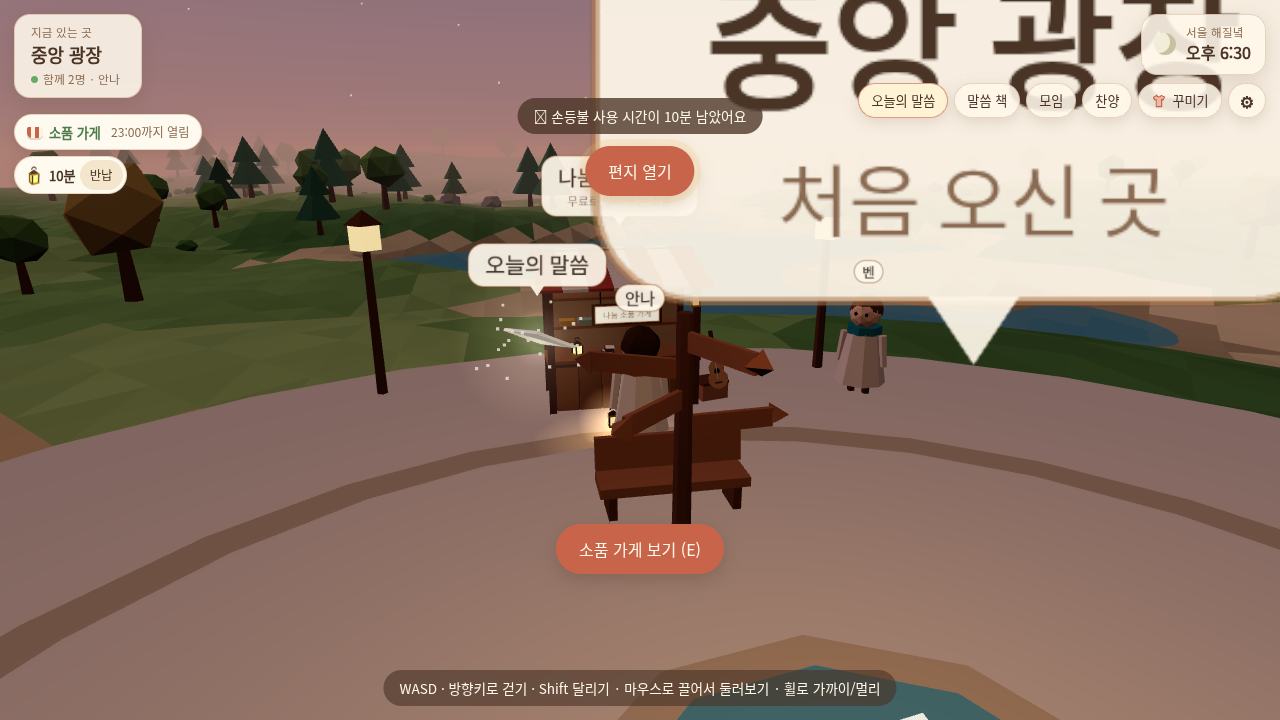
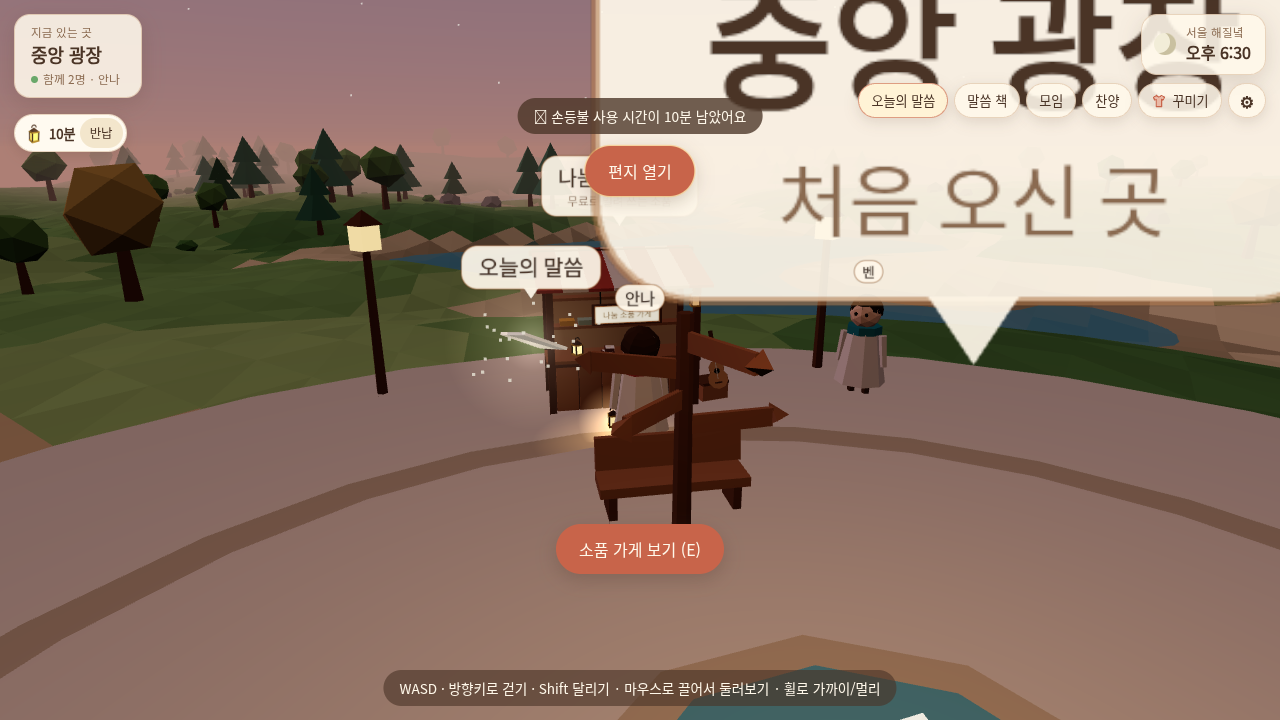
fix(shop): remove the HUD opening-hours chip; re-sync on ambiguous rent replies
The user asked to drop the top-left 'open until …' chip; hours stay on the
stall sign and in the shop sheet. Rent now re-checks server state (and retries
with the same requestId) when a reply carries no explicit error, so a rental
that succeeded behind a proxy hiccup is never reported as failed.

Claude-Session: https://claude.ai/code/session_01QsWPXXpkTAwZLNvoEFaFKZ

Changed region(s): [[0.3438, 0.3361, 0.5, 0.4889], [0.0, 0.1528, 0.1562, 0.275]]

diff --git a/client/src/ui/ShopView.ts b/client/src/ui/ShopView.ts
@@ -133,44 +133,33 @@ export class ShopView {
 }
 
 /**
- * HUD dock (top-left, under the place card): 🏪 shop chip while open (or the
- * next opening time in the plaza) and one chip per borrowed prop with the time
- * left and [반납] (tap twice to confirm).
+ * HUD dock (top-left, under the place card): one chip per borrowed prop with
+ * the time left and [반납] (tap twice to confirm). The shop's opening hours are
+ * not shown here (the user removed that chip); the stall, its sign and the
+ * shop sheet show them.
  */
 export class PropDock {
   readonly root = el('div', 'prop-dock');
-  private readonly shopChip = button('', 'prop-chip shop-chip');
   private readonly list = el('div', 'prop-list');
   private confirmId: number | null = null;
   private confirmUntil = 0;
   private lastKey = '';
-  private showClosed = false;
 
   constructor(
     private readonly shop: ShopClient,
-    onShop: () => void,
+    _onShop: () => void,
     private readonly toast: (text: string) => void,
   ) {
     this.root.id = 'prop-dock';
-    this.shopChip.id = 'shop-chip';
-    this.shopChip.addEventListener('click', (e) => {
-      e.preventDefault();
-      onShop();
-      this.shopChip.blur();
-    });
     this.list.id = 'prop-list';
-    this.root.append(this.shopChip, this.list);
+    this.root.append(this.list);
     this.root.addEventListener('pointerdown', (e) => e.stopPropagation());
     document.getElementById('app')!.append(this.root);
     shop.onChange(() => this.update(true));
   }
 
-  /** Show the "next opening" chip while closed (only near the plaza). */
-  setNearPlaza(near: boolean) {
-    if (near === this.showClosed) return;
-    this.showClosed = near;
-    this.update(true);
-  }
+  /** Kept for callers; the hours chip was removed. */
+  setNearPlaza(_near: boolean) {}
 
   /** Called every frame; rewrites the DOM only when a label changes. */
   update(force = false) {
@@ -181,17 +170,9 @@ export class PropDock {
       force = true;
     }
     const chips = s.rentals.map((r) => `${r.id}:${r.item}:${minutesLeft(s.remainingMs(r))}:${s.returning.has(r.id)}`);
-    const shopText = s.open || (this.showClosed && s.status) ? '소품 가게' : '';
-    const shopSub = s.open ? `${s.closesLabel()}까지 열림` : `${s.nextOpenLabel()}에 열어요`;
-    const key = `${shopText}|${shopSub}|${chips.join(',')}|${this.confirmId}`;
+    const key = `${chips.join(',')}|${this.confirmId}`;
     if (!force && key === this.lastKey) return;
     this.lastKey = key;
-    this.shopChip.hidden = !shopText;
-    const main = el('span', 'shop-chip-main');
-    main.append(el('span', 'shop-awning mini'), shopText);
-    this.shopChip.replaceChildren(main, el('span', 'shop-chip-sub', shopSub));
-    this.shopChip.classList.toggle('closed', !s.open);
-    this.shopChip.setAttribute('aria-label', s.open ? `나눔 소품 가게 열기 (${s.closesLabel()}까지)` : `나눔 소품 가게 · 다음 문 여는 시간 ${s.nextOpenLabel()}`);
     this.list.replaceChildren(
       ...s.rentals.map((r) => {
         const def = PROPS[r.item];
@@ -209,7 +190,7 @@ export class PropDock {
         return chip;
       }),
     );
-    this.root.hidden = !shopText && s.rentals.length === 0;
+    this.root.hidden = s.rentals.length === 0;
   }
 
   private async giveBack(id: number, name: string) {

diff --git a/client/src/game/Shop.ts b/client/src/game/Shop.ts
@@ -191,6 +191,18 @@ export class ShopClient {
           continue;
         }
         if (res.ok && d.rental) return { ok: true, rental: d.rental };
+        if (!d.error) {
+          // Ambiguous answer (no JSON error, e.g. a proxy hiccup): the server may
+          // have rented it anyway. Never guess: re-sync, then report what is true.
+          await this.refresh();
+          const got = this.rentals.find((r) => r.item === item);
+          if (got) return { ok: true, rental: got };
+          if (attempt + 1 < RETRIES) {
+            // Same requestId, so a retry can't double-rent (server replays).
+            await new Promise((r) => setTimeout(r, 800 * (attempt + 1)));
+            continue;
+          }
+        }
         return { ok: false, code: d.error ?? 'error', message: d.message ?? '빌리지 못했어요.' };
       }
     } finally {
